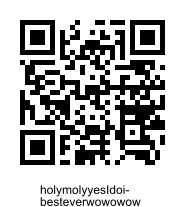
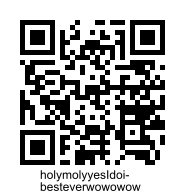
add toString for qrText img

diff --git a/qr-make.js b/qr-make.js
@@ -202,12 +202,12 @@ QrCoder.prototype.combineQR = function(encodingFilesPairs,imgType,callback) {
       var qrPath =  './qrImgs/' + txtImgsWidth[i][0];
 
       if(txtImgsWidth[i][2]) {
-        gm()
+          gm()
           .in("-page","+0+0")
           .in(qrImgPath)
           .in("-page",
-          "+40" + "+" + parseInt(
-            sizeOf('./tmp/img/' + txtImgsWidth[i][0]).height-15)
+          "+40" + "+" + (parseInt(
+            sizeOf('./tmp/img/' + txtImgsWidth[i][0]).height)-15).toString()
           )
           .in(qrTextPath)
           .mosaic()
@@ -235,18 +235,3 @@ QrCoder.prototype.combineQR = function(encodingFilesPairs,imgType,callback) {
 };
 
 exports.QrCoder = QrCoder;
-
-
-
-//function(cb) {
-  //composite txt img, qr code img, and background img; write it to qrPath
-//  gm()
-//  .composite()
-//  .in("-gravity", "north")
-//  .in(qrImgPath)
-//  .in(qrPath)
-//  .write(qrPath, function(err) {
-//    if(!err) {console.log("QR generated");}
-//    else {console.log(err);}
-//  })
-//}

diff --git a/app.js b/app.js
@@ -10,7 +10,6 @@ var qr = require('./qr-make.js')
 // test qr-make modules
 QrTest = new qr.QrCoder();
 
-
 async.waterfall([
   QrTest.makeQR,
   QrTest.combineQR
